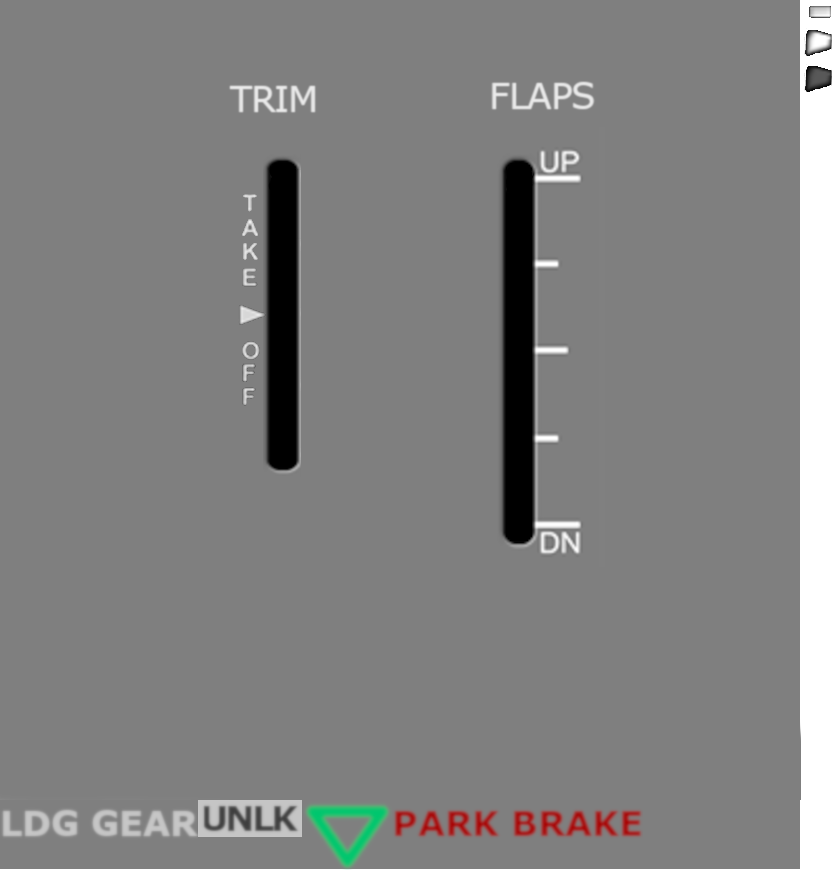
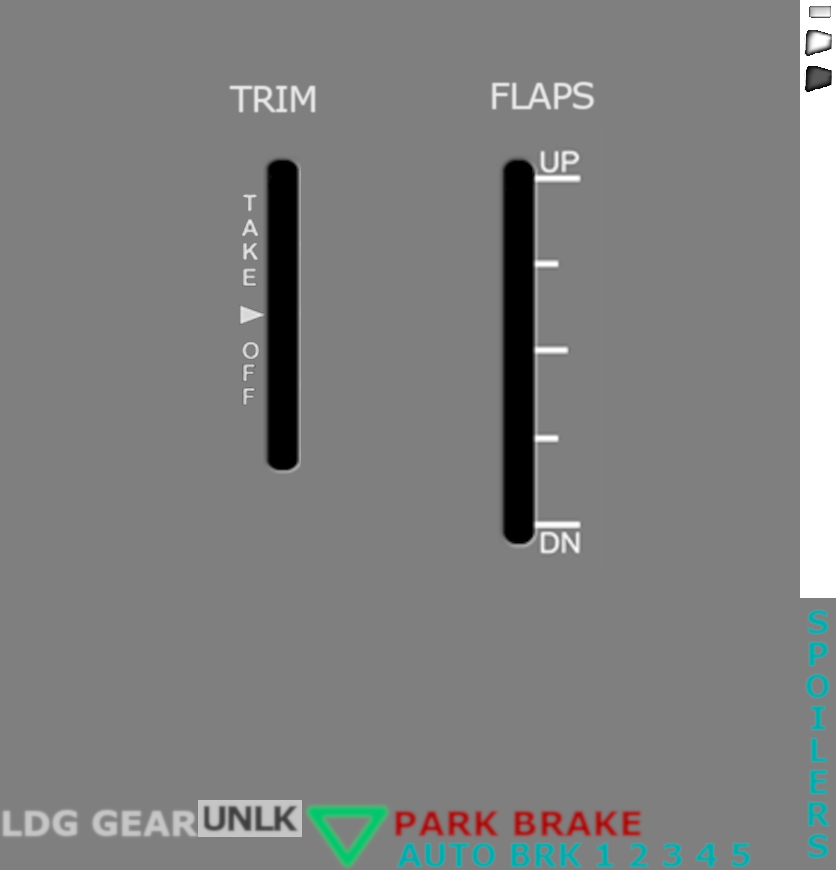
Add toga + mct, auto brk and reverse thrust

Changed region(s): [[0.0, 0.6828, 1.0, 1.0]]

diff --git a/instrument-panel/instruments/trimFlaps.cpp b/instrument-panel/instruments/trimFlaps.cpp
@@ -84,9 +84,27 @@ void trimFlaps::resize()
     addBitmap(bmp);
 
     // 9 = Parking brake
-    bmp = al_create_bitmap(251, 44);
+    bmp = al_create_bitmap(252, 33);
     al_set_target_bitmap(bmp);
-    al_draw_bitmap_region(orig, 392, 800, 251, 44, 0, 0, 0);
+    al_draw_bitmap_region(orig, 392, 807, 252, 33, 0, 0, 0);
+    addBitmap(bmp);
+
+    // 10 = Auto brake
+    bmp = al_create_bitmap(198, 30);
+    al_set_target_bitmap(bmp);
+    al_draw_bitmap_region(orig, 392, 840, 198, 30, 0, 0, 0);
+    addBitmap(bmp);
+
+    // 11 = Auto brake numbers
+    bmp = al_create_bitmap(165, 30);
+    al_set_target_bitmap(bmp);
+    al_draw_bitmap_region(orig, 590, 840, 165, 30, 0, 0, 0);
+    addBitmap(bmp);
+
+    // 12 = Spoilers
+    bmp = al_create_bitmap(28, 260);
+    al_set_target_bitmap(bmp);
+    al_draw_bitmap_region(orig, 804, 605, 28, 260, 0, 0, 0);
     addBitmap(bmp);
 
     al_set_target_backbuffer(globals.display);
@@ -119,41 +137,53 @@ void trimFlaps::render()
     // Add flaps
     al_draw_bitmap(bitmaps[4], 501 * scaleFactor, (161 + flapsOffset) * scaleFactor, 0);
 
-    if (isGearRetractable) {
+    if (simVars->gearRetractable) {
         // Add landing gear
         al_draw_scaled_bitmap(bitmaps[6], 0, 0, 198, 44, 227 * scaleFactor, 535 * scaleFactor, 198 * scaleFactor, 44 * scaleFactor, 0);
 
-        if (gearLeftPos == 100) {
+        if (simVars->gearLeftPos == 100) {
             // Add gear down
             al_draw_scaled_bitmap(bitmaps[8], 0, 0, 90, 70, 223 * scaleFactor, 590 * scaleFactor, 90 * scaleFactor, 70 * scaleFactor, 0);
         }
-        else if (gearLeftPos > 0) {
+        else if (simVars->gearLeftPos > 0) {
             // Add UNLK
             al_draw_scaled_bitmap(bitmaps[7], 0, 0, 104, 37, 214 * scaleFactor, 602 * scaleFactor, 104 * scaleFactor, 37 * scaleFactor, 0);
         }
 
-        if (gearCentrePos == 100) {
+        if (simVars->gearCentrePos == 100) {
             // Add gear down
             al_draw_scaled_bitmap(bitmaps[8], 0, 0, 90, 70, 358 * scaleFactor, 590 * scaleFactor, 90 * scaleFactor, 70 * scaleFactor, 0);
         }
-        else if (gearCentrePos > 0) {
+        else if (simVars->gearCentrePos > 0) {
             // Add UNLK
             al_draw_scaled_bitmap(bitmaps[7], 0, 0, 104, 37, 350 * scaleFactor, 602 * scaleFactor, 104 * scaleFactor, 37 * scaleFactor, 0);
         }
 
-        if (gearRightPos == 100) {
+        if (simVars->gearRightPos == 100) {
             // Add gear down
             al_draw_scaled_bitmap(bitmaps[8], 0, 0, 90, 70, 493 * scaleFactor, 590 * scaleFactor, 90 * scaleFactor, 70 * scaleFactor, 0);
         }
-        else if (gearRightPos > 0) {
+        else if (simVars->gearRightPos > 0) {
             // Add UNLK
             al_draw_scaled_bitmap(bitmaps[7], 0, 0, 104, 37, 486 * scaleFactor, 602 * scaleFactor, 104 * scaleFactor, 37 * scaleFactor, 0);
         }
     }
 
-    if (parkingBrakeOn) {
+    if (simVars->parkingBrakeOn) {
         // Add parking brake
-        al_draw_scaled_bitmap(bitmaps[9], 0, 0, 251, 44, 277 * scaleFactor, 692 * scaleFactor, 254 * scaleFactor, 44 * scaleFactor, 0);
+        al_draw_scaled_bitmap(bitmaps[9], 0, 0, 252, 33, 277 * scaleFactor, 703 * scaleFactor, 252 * scaleFactor, 33 * scaleFactor, 0);
+    }
+    else if (simVars->tfAutoBrake > 1) {
+        // Add auto brake
+        al_draw_scaled_bitmap(bitmaps[10], 0, 0, 198, 30, 289 * scaleFactor, 705 * scaleFactor, 198 * scaleFactor, 30 * scaleFactor, 0);
+
+        // Add auto brake setting
+        al_draw_scaled_bitmap(bitmaps[11], 33 * (simVars->tfAutoBrake - 2), 0, 33, 30, 487 * scaleFactor, 705 * scaleFactor, 33 * scaleFactor, 30 * scaleFactor, 0);
+    }
+
+    if (simVars->tfSpoilersPosition > 0) {
+        // Add spoilers
+        al_draw_scaled_bitmap(bitmaps[12], 0, 0, 28, 260, 412 * scaleFactor, 221 * scaleFactor, 28 * scaleFactor, 260 * scaleFactor, 0);
     }
 
     al_set_target_backbuffer(globals.display);
@@ -218,12 +248,6 @@ void trimFlaps::update()
     else {
         flapsOffset = targetFlaps;
     }
-
-    isGearRetractable = (simVars->gearRetractable == 1);
-    gearLeftPos = simVars->gearLeftPos;
-    gearCentrePos = simVars->gearCentrePos;
-    gearRightPos = simVars->gearRightPos;
-    parkingBrakeOn = (simVars->parkingBrakeOn == 1);
 }
 
 /// <summary>
@@ -239,6 +263,8 @@ void trimFlaps::addVars()
     globals.simVars->addVar(name, "Gear Center Position", false, 1, 0);
     globals.simVars->addVar(name, "Gear Right Position", false, 1, 0);
     globals.simVars->addVar(name, "Brake Parking Position", true, 1, 0);
+    globals.simVars->addVar(name, "Spoilers Handle Position", false, 1, 0);
+    globals.simVars->addVar(name, "Auto Brake Switch Cb", false, 1, 0);
 }
 
 #ifndef _WIN32

diff --git a/instrument-panel/instruments/nav.cpp b/instrument-panel/instruments/nav.cpp
@@ -138,6 +138,18 @@ void nav::resize()
     al_draw_bitmap_region(orig, 1346, 834, 66, 34, 0, 0, 0);
     addBitmap(bmp);
 
+    // 18 = Autopilot MAN TOGA display
+    bmp = al_create_bitmap(172, 32);
+    al_set_target_bitmap(bmp);
+    al_draw_bitmap_region(orig, 1427, 834, 172, 32, 0, 0, 0);
+    addBitmap(bmp);
+
+    // 19 = Autopilot MAN MCT display
+    bmp = al_create_bitmap(148, 32);
+    al_set_target_bitmap(bmp);
+    al_draw_bitmap_region(orig, 1451, 800, 148, 32, 0, 0, 0);
+    addBitmap(bmp);
+
     al_set_target_backbuffer(globals.display);
 }
 
@@ -333,14 +345,23 @@ void nav::renderAutopilot()
         break;
     }
 
-    // Add cyan LOC display
     if (simVars->autopilotApproachHold) {
-        al_draw_scaled_bitmap(bitmaps[16], 0, 0, 66, 34, 1317 * scaleFactorX, 227 * scaleFactorY, 66 * scaleFactorX, 34 * scaleFactorX, 0);
+        // Add cyan LOC display
+        al_draw_scaled_bitmap(bitmaps[16], 0, 0, 66, 34, 1317 * scaleFactorX, 227 * scaleFactorY, 66 * scaleFactorX, 34 * scaleFactorY, 0);
     }
 
-    // Add cyan G/S display
     if (simVars->autopilotGlideslopeHold) {
-        al_draw_scaled_bitmap(bitmaps[17], 0, 0, 66, 34, 1317 * scaleFactorX, 270 * scaleFactorY, 66 * scaleFactorX, 34 * scaleFactorX, 0);
+        // Add cyan G/S display
+        al_draw_scaled_bitmap(bitmaps[17], 0, 0, 66, 34, 1317 * scaleFactorX, 270 * scaleFactorY, 66 * scaleFactorX, 34 * scaleFactorY, 0);
+    }
+
+    if (simVars->autothrottleActive && simVars->throttlePosition > 95) {
+        // Add MAN TOGA display
+        al_draw_scaled_bitmap(bitmaps[18], 0, 0, 172, 32, 391 * scaleFactorX, 187 * scaleFactorY, 172 * scaleFactorX, 32 * scaleFactorY, 0);
+    }
+    else if (simVars->autothrottleActive && simVars->throttlePosition > 90) {
+        // Add MAN MCT display
+        al_draw_scaled_bitmap(bitmaps[19], 0, 0, 148, 32, 403 * scaleFactorX, 187 * scaleFactorY, 148 * scaleFactorX, 32 * scaleFactorY, 0);
     }
 }
 
@@ -525,8 +546,8 @@ void nav::addVerticalSpeed(int x, int y)
 
     if (simVars->autopilotVerticalSpeed == 0) {
         // Add 0fpm
-        x += 87;
-        al_draw_scaled_bitmap(bitmaps[12], 32, 0, 130, 50, x * scaleFactorX, yPos, 162 * scaleFactorX, height, 0);
+        x += 119;
+        al_draw_scaled_bitmap(bitmaps[13], 32, 0, 130, 50, x * scaleFactorX, yPos, 130 * scaleFactorX, height, 0);
         return;
     }
 
@@ -682,6 +703,7 @@ void nav::addVars()
     globals.simVars->addVar(name, "Autopilot Airspeed Hold", true, 1, 0);
     globals.simVars->addVar(name, "Autopilot Approach Hold", true, 1, 0);
     globals.simVars->addVar(name, "Autopilot Glideslope Hold", true, 1, 0);
+    globals.simVars->addVar(name, "General Eng Throttle Lever Position:1", false, 1, 0);
     globals.simVars->addVar(name, "Autothrottle Active", true, 1, 0);
 }
 
@@ -947,12 +969,20 @@ void nav::autopilotSwitchPressed()
     }
     case LocatorHold:
     {
+        if (simVars->autopilotGlideslopeHold) {
+            globals.simVars->write(KEY_AP_APR_HOLD_OFF);
+        }
         globals.simVars->write(KEY_AP_LOC_HOLD);
         break;
     }
     case ApproachHold:
     {
-        globals.simVars->write(KEY_AP_APR_HOLD);
+        if (simVars->autopilotGlideslopeHold) {
+            globals.simVars->write(KEY_AP_APR_HOLD_OFF);
+        }
+        else {
+            globals.simVars->write(KEY_AP_APR_HOLD_ON);
+        }
         break;
     }
     }

diff --git a/instrument-panel/simvarDefs.cpp b/instrument-panel/simvarDefs.cpp
@@ -18,6 +18,8 @@ const char* SimVarDefs[][2] = {
     { "Elevator Trim Position", "degrees" },
     { "Flaps Num Handle Positions", "number" },
     { "Flaps Handle Index", "number" },
+    { "Spoilers Handle Position", "percent" },
+    { "Auto Brake Switch Cb", "number" },
     { "Zulu Time", "seconds" },
     { "Local Time", "seconds" },
     { "Absolute Time", "seconds" },
@@ -69,6 +71,7 @@ const char* SimVarDefs[][2] = {
     { "Autopilot Airspeed Hold", "bool" },
     { "Autopilot Approach Hold", "bool" },
     { "Autopilot Glideslope Hold", "bool" },
+    { "General Eng Throttle Lever Position:1", "percent" },
     { "Autothrottle Active", "bool" },
     { "Is Gear Retractable", "bool" },
     { "Gear Left Position", "percent" },
@@ -128,7 +131,8 @@ WriteEvent WriteEvents[] = {
     { KEY_AP_ALT_HOLD_ON, "AP_ALT_HOLD_ON" },
     { KEY_AP_ALT_HOLD_OFF, "AP_ALT_HOLD_OFF" },
     { KEY_AP_LOC_HOLD, "AP_LOC_HOLD" },
-    { KEY_AP_APR_HOLD, "AP_APR_HOLD" },
+    { KEY_AP_APR_HOLD_ON, "AP_APR_HOLD_ON" },
+    { KEY_AP_APR_HOLD_OFF, "AP_APR_HOLD_OFF" },
     { KEY_AP_PANEL_ALTITUDE_ON, "AP_PANEL_ALTITUDE_ON" },
     { KEY_AUTO_THROTTLE_ARM, "AUTO_THROTTLE_ARM" },
     { SIM_STOP, NULL }

diff --git a/instrument-panel/instruments/rpm.cpp b/instrument-panel/instruments/rpm.cpp
@@ -72,6 +72,12 @@ void rpm::resize()
     al_draw_scaled_bitmap(orig, 1108, 0, 54, 156, 0, 0, 54 * scaleFactor, 156 * scaleFactor, 0);
     addBitmap(bmp);
 
+    // 8 = Reverse thrust indicator
+    bmp = al_create_bitmap(75 * scaleFactor, 30 * scaleFactor);
+    al_set_target_bitmap(bmp);
+    al_draw_scaled_bitmap(orig, 1000, 604, 75, 30, 0, 0, 75 * scaleFactor, 30 * scaleFactor, 0);
+    addBitmap(bmp);
+
     al_set_target_backbuffer(globals.display);
 }
 
@@ -123,6 +129,11 @@ void rpm::render()
 
     // Add pointer
     al_draw_scaled_rotated_bitmap(bitmaps[3], 50, 400, 400 * scaleFactor, 400 * scaleFactor, scaleFactor, scaleFactor, angle * DegreesToRadians, 0);
+
+    // Add reverse thrust indicator
+    if (simVars->throttlePosition < 0) {
+        al_draw_bitmap(bitmaps[8], 362 * scaleFactor, 496 * scaleFactor, 0);
+    }
 
     // Position dest bitmap on screen
     al_set_target_backbuffer(globals.display);

diff --git a/instrument-panel/simvarDefs.h b/instrument-panel/simvarDefs.h
@@ -20,6 +20,8 @@ struct SimVars
     double tfElevatorTrim = 0;
     double tfFlapsCount = 1;
     double tfFlapsIndex = 0;
+    double tfSpoilersPosition = 0;
+    double tfAutoBrake = 0;
     double dcUtcSeconds = 43200;
     double dcLocalSeconds = 46800;
     double dcFlightSeconds = 0;
@@ -71,6 +73,7 @@ struct SimVars
     double autopilotAirspeedHold = 0;
     double autopilotApproachHold = 0;
     double autopilotGlideslopeHold = 0;
+    double throttlePosition = 0;
     double autothrottleActive = 0;
     double gearRetractable = 1;
     double gearLeftPos = 100;
@@ -131,7 +134,8 @@ enum EVENT_ID {
     KEY_AP_ALT_HOLD_ON,
     KEY_AP_ALT_HOLD_OFF,
     KEY_AP_LOC_HOLD,
-    KEY_AP_APR_HOLD,
+    KEY_AP_APR_HOLD_ON,
+    KEY_AP_APR_HOLD_OFF,
     KEY_AP_PANEL_ALTITUDE_ON,
     KEY_AUTO_THROTTLE_ARM
 };

diff --git a/instrument-panel/instruments/trimFlaps.h b/instrument-panel/instruments/trimFlaps.h
@@ -16,11 +16,6 @@ private:
     float trimOffset;
     float flapsOffset = 0;
     float targetFlaps;
-    bool isGearRetractable;
-    int gearLeftPos;
-    int gearCentrePos;
-    int gearRightPos;
-    bool parkingBrakeOn;
 
     // Hardware knobs
     int trimKnob = -1;

diff --git a/instrument-panel/instrument.h b/instrument-panel/instrument.h
@@ -8,7 +8,7 @@
 extern globalVars globals;
 
 // Set maximum number of bitmaps per instrument
-const int MaxBitmaps = 18;
+const int MaxBitmaps = 20;
 
 // Convert Allegro4 angle (256 = full circle) into radians
 const double AngleFactor = 2.0f * ALLEGRO_PI / 256.0f;
